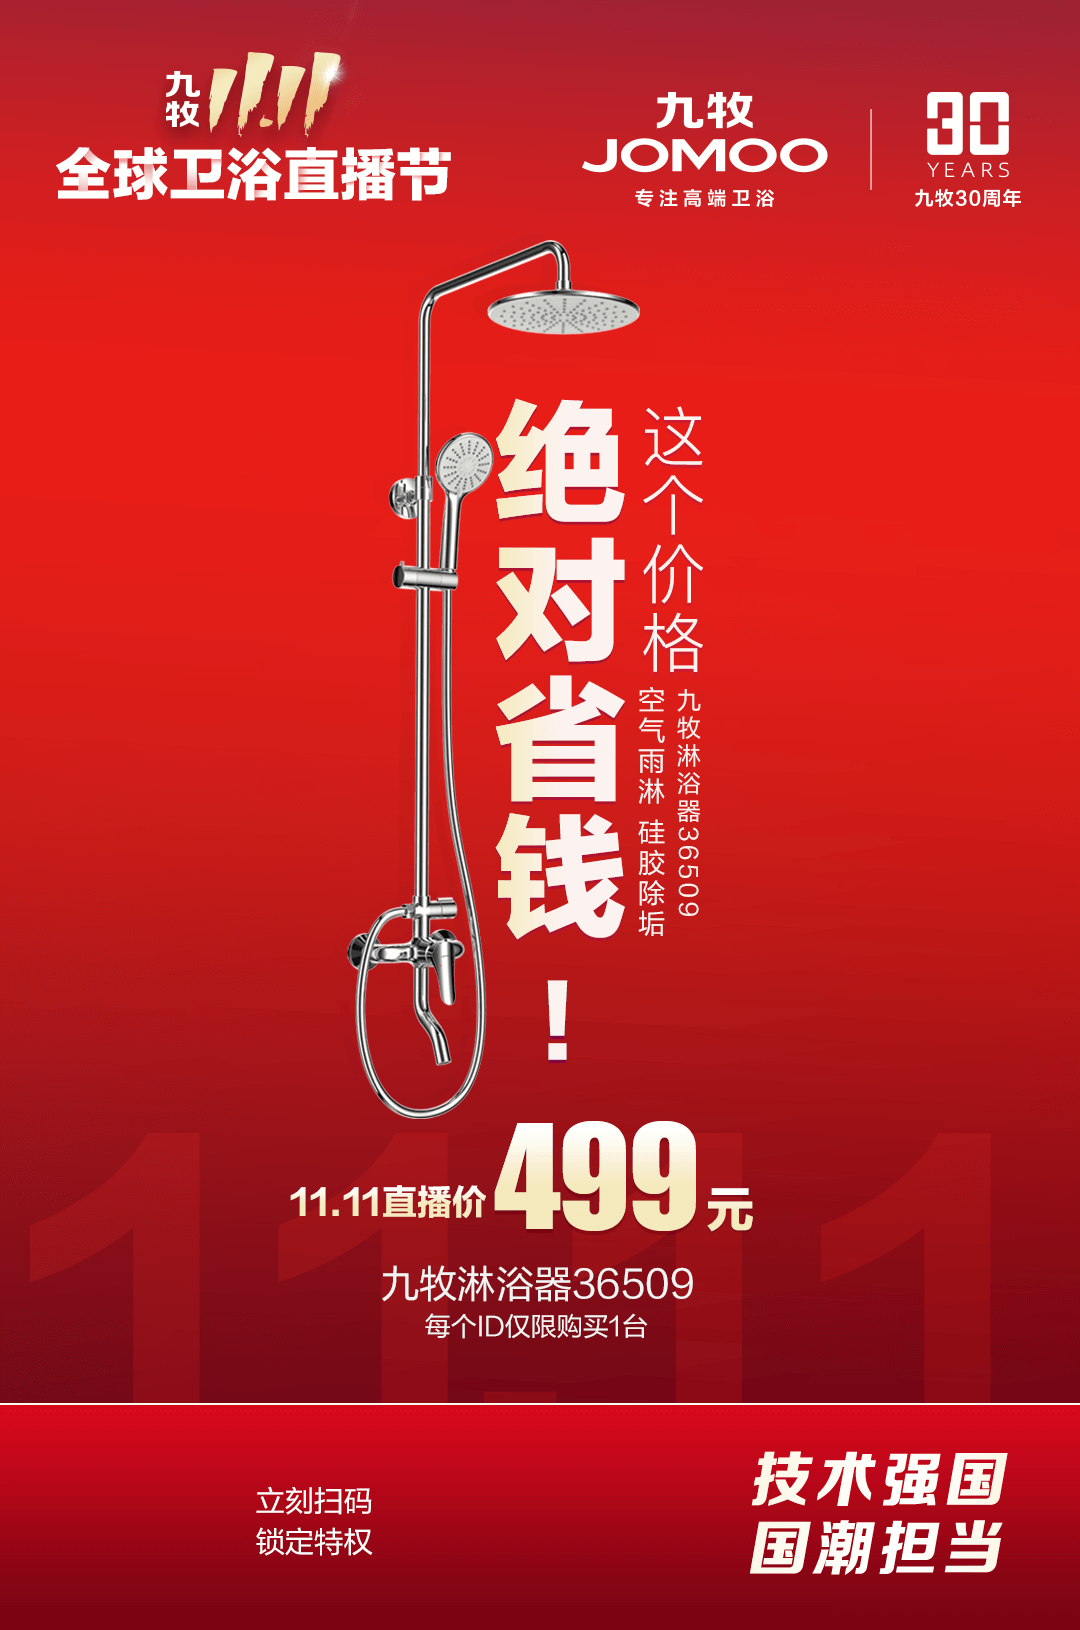
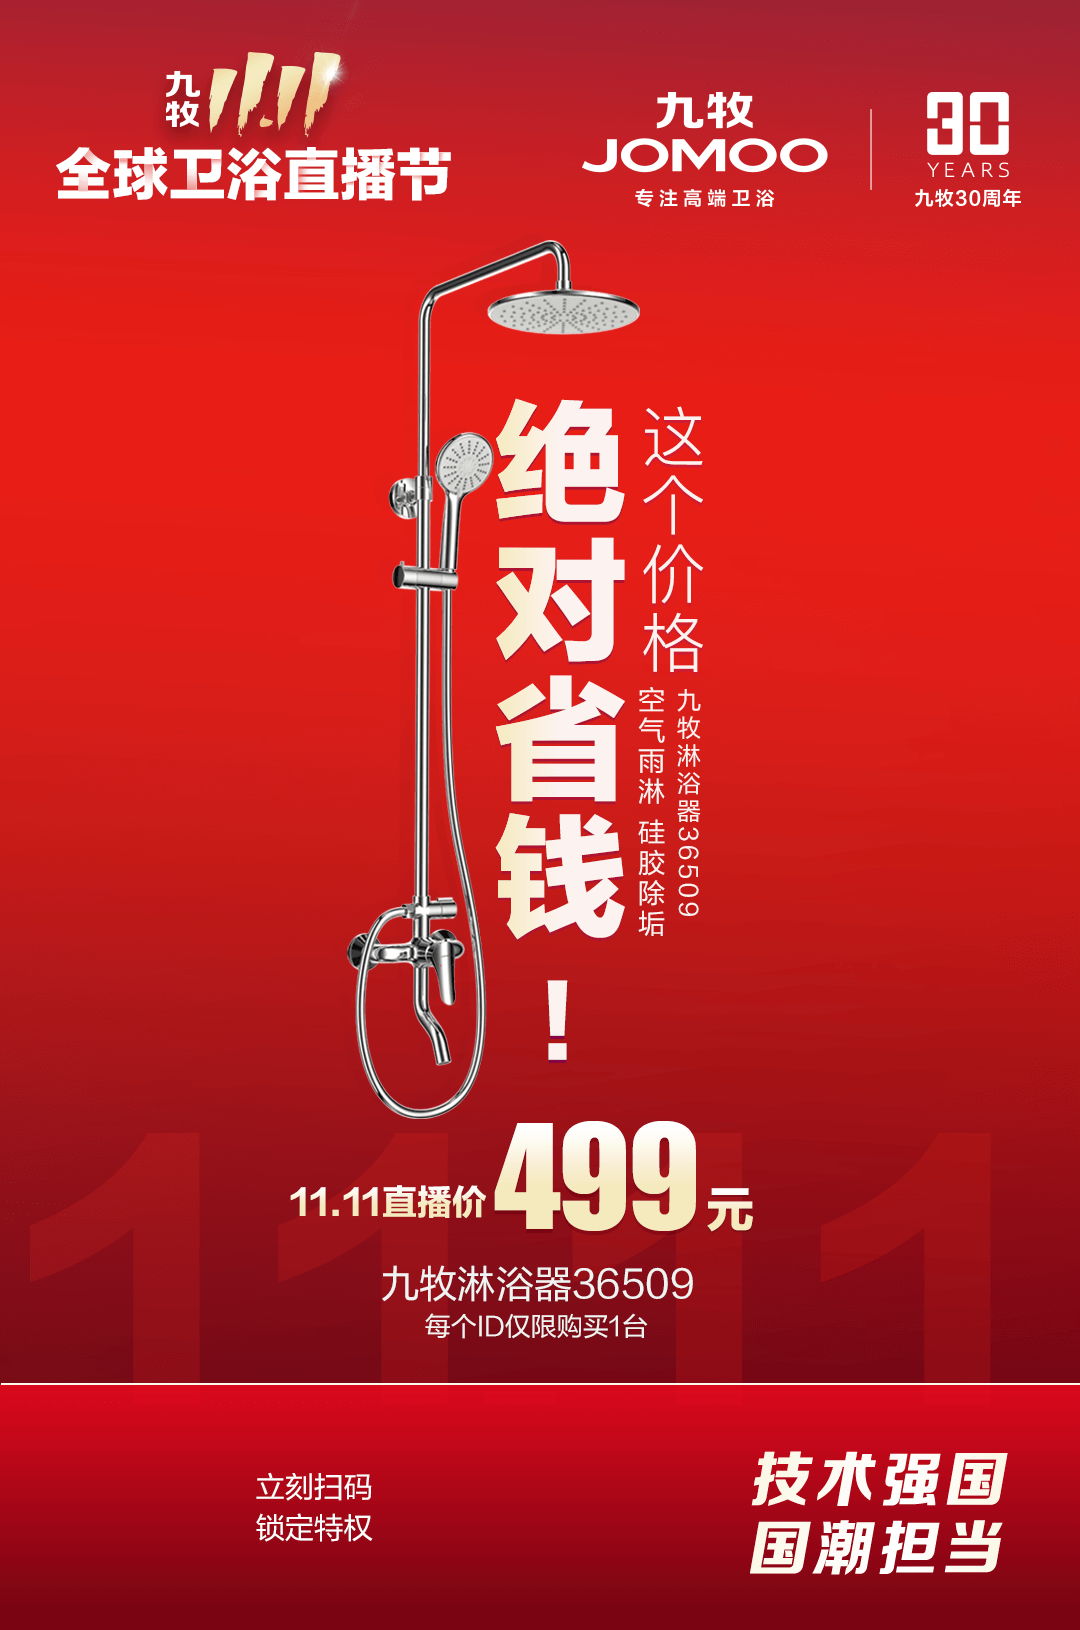
h5分享海报二维码位置调整

Changed region(s): [[0.0, 0.8282, 1.0, 0.8589], [0.2139, 0.8896, 0.3667, 0.9509]]

diff --git a/live201111/share.html b/live201111/share.html
@@ -220,8 +220,8 @@
 				ctx.save()
 				// 绘制二维码
 				ctx.fillStyle = "#fff";
-				ctx.fillRect( 5 * rates, windH - 210 * rates, 145 * rates, 145 * rates);
-				ctx.drawImage(img, 10 * rates, windH - 205 * rates, 135 * rates, 135 * rates);
+				ctx.fillRect( 15 * rates, windH - 210 * rates, 145 * rates, 145 * rates);
+				ctx.drawImage(img, 20 * rates, windH - 205 * rates, 135 * rates, 135 * rates);
 				// // 绘制文字 ’长按识别二维码
 				// ctx.font=34 * ratio + "px microsoft yahei";
 				// ctx.fillStyle = "#fff";
